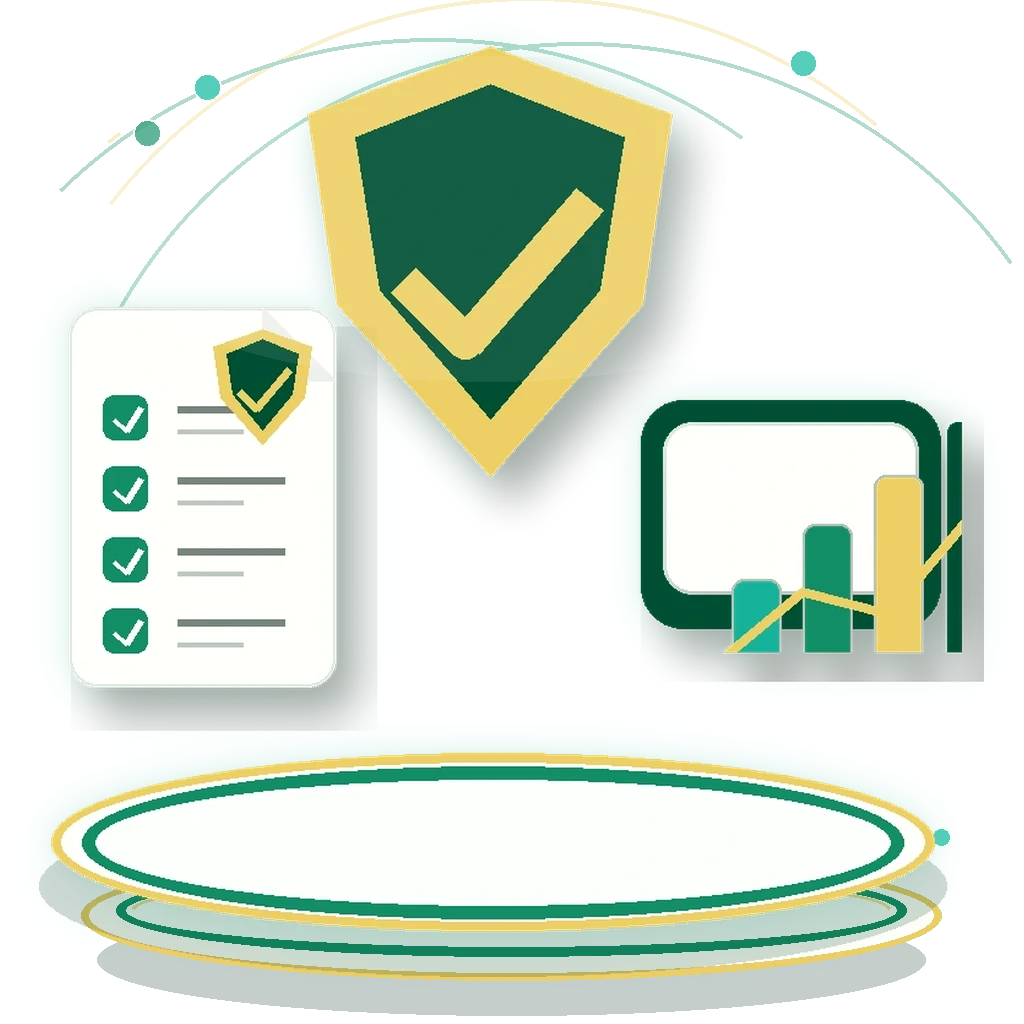
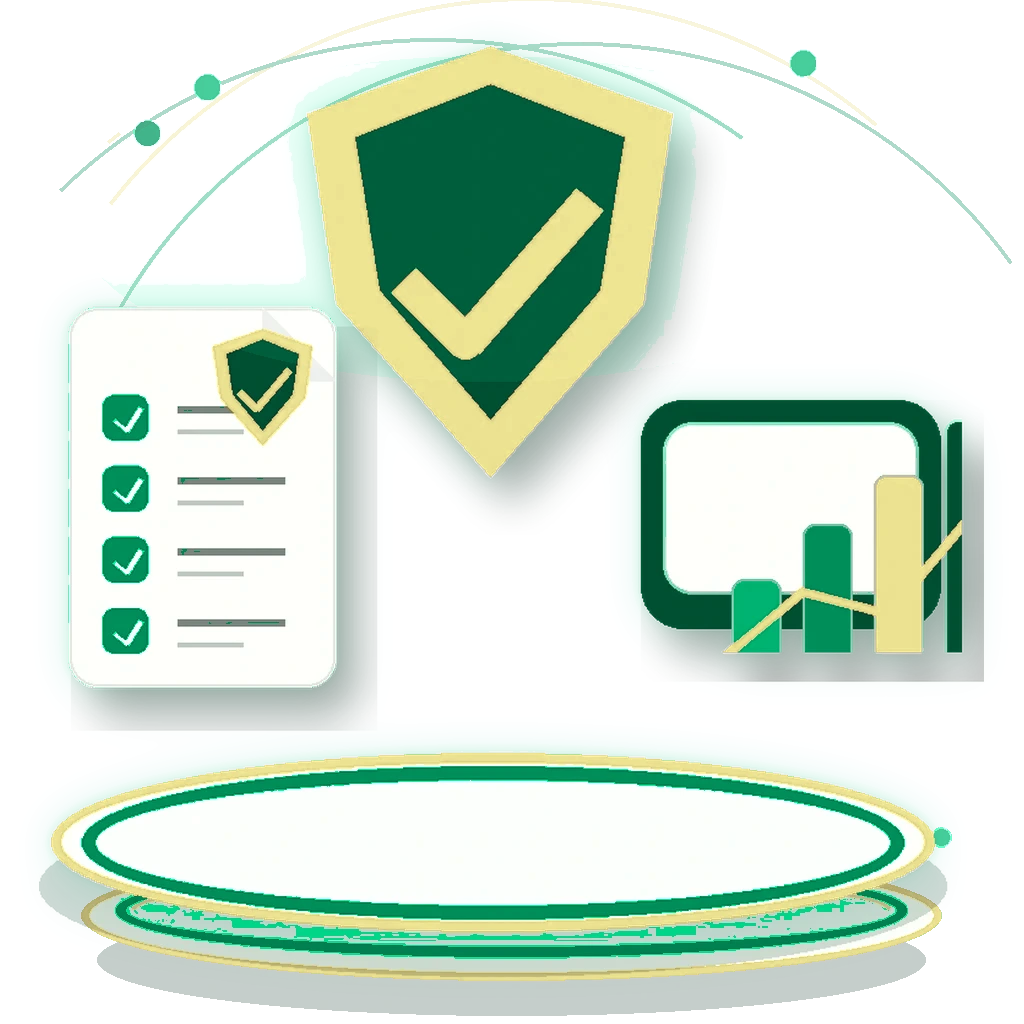
Order intro pillar cards sequentially, recolor hero illustration to 2 colors
- The intro pillar row reused a 3-item visual reorder ([1,2,0]) that
  was written specifically for the old 3-pillar governance slide
  layout (governance-middle, compliance-left, risk-right). Emergency
  slides inherited it too, so chapters showed as 3-1-2-4 instead of
  1-2-3-4 in RTL reading order. Emergency slides now use strict
  index order; governance keeps its original reorder untouched.
- Recolored intro-emergency-preparedness-shield.webp (the shared hero
  image on every emergency welcome slide -- bag intro + all 4 chapter
  intros) so every shape uses only the two exact identity colors,
  hue-remapped from the stock illustration's mixed teal/mint/yellow
  palette while preserving each pixel's original shading for depth.

diff --git a/src/components/player/SlideStage.tsx b/src/components/player/SlideStage.tsx
@@ -1386,18 +1386,16 @@ function IntroMotionScene({
           className="absolute flex items-end justify-center gap-2 transition-all duration-1000 ease-out"
           style={{ right: `${pillarRowRightPct}%`, bottom: '10%', width: `${pillarRowWidthPct}%` }}
         >
-        {/* Narration reveals pillars in content order (governance →
-            compliance → risk), but the client wants them displayed
-            governance-middle, compliance-left, risk-right — reorder
-            visually with `order` instead of reordering the array, so the
-            reveal/highlight timing (tied to `index`) still lines up with
-            what the narration says. A 4th pillar (only the bag-level
-            welcome slide has one) just appends after the reordered three. */}
+        {/* Governance's 3-pillar slide reorders visually (governance-middle,
+            compliance-left, risk-right) per an old client request, without
+            touching the reveal-order array. Emergency slides instead need
+            strict chapter-1-to-4 left-to-right order, so they skip that
+            reorder entirely. */}
         {pillars.map((pillar, index) => {
           const shown = index < visiblePillars;
           const active = started && !narrationComplete && index === activeIndex;
-          const cardWidth = pillars.length > 3 ? 'w-[80px]' : 'w-[94px]';
-          const visualOrder = index < 3 ? [1, 2, 0][index] : index;
+          const cardWidth = pillars.length > 3 ? 'w-[86px]' : 'w-[94px]';
+          const visualOrder = isEmergencyCourse ? index : index < 3 ? [1, 2, 0][index] : index;
           return (
             <div
               key={`intro-label-${pillar.label}`}
